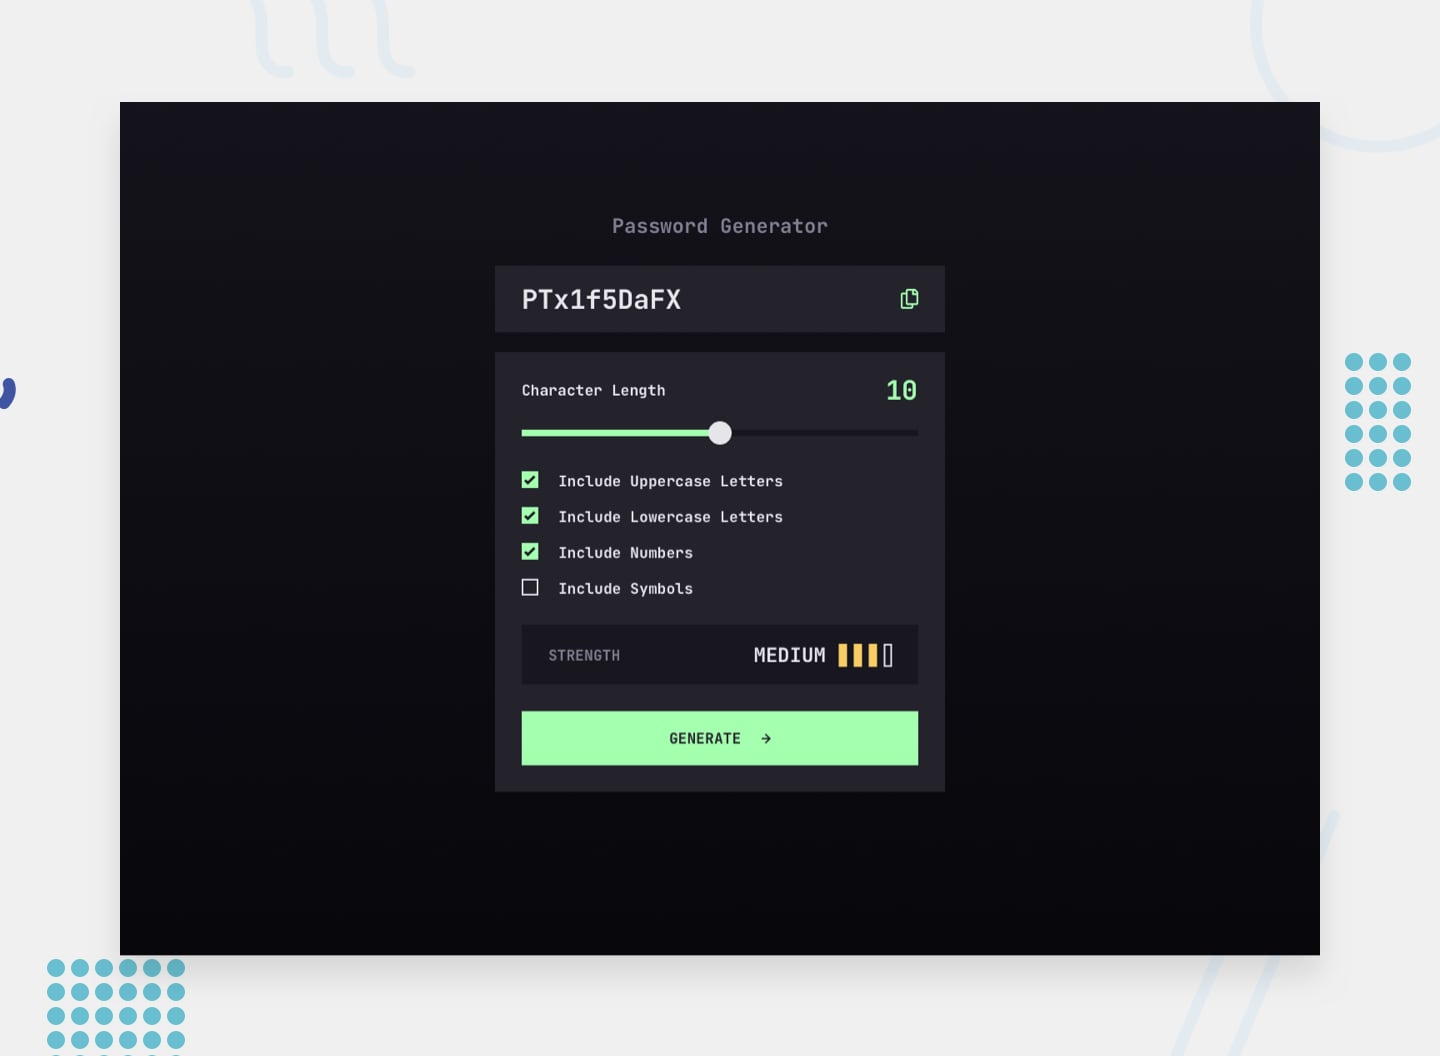
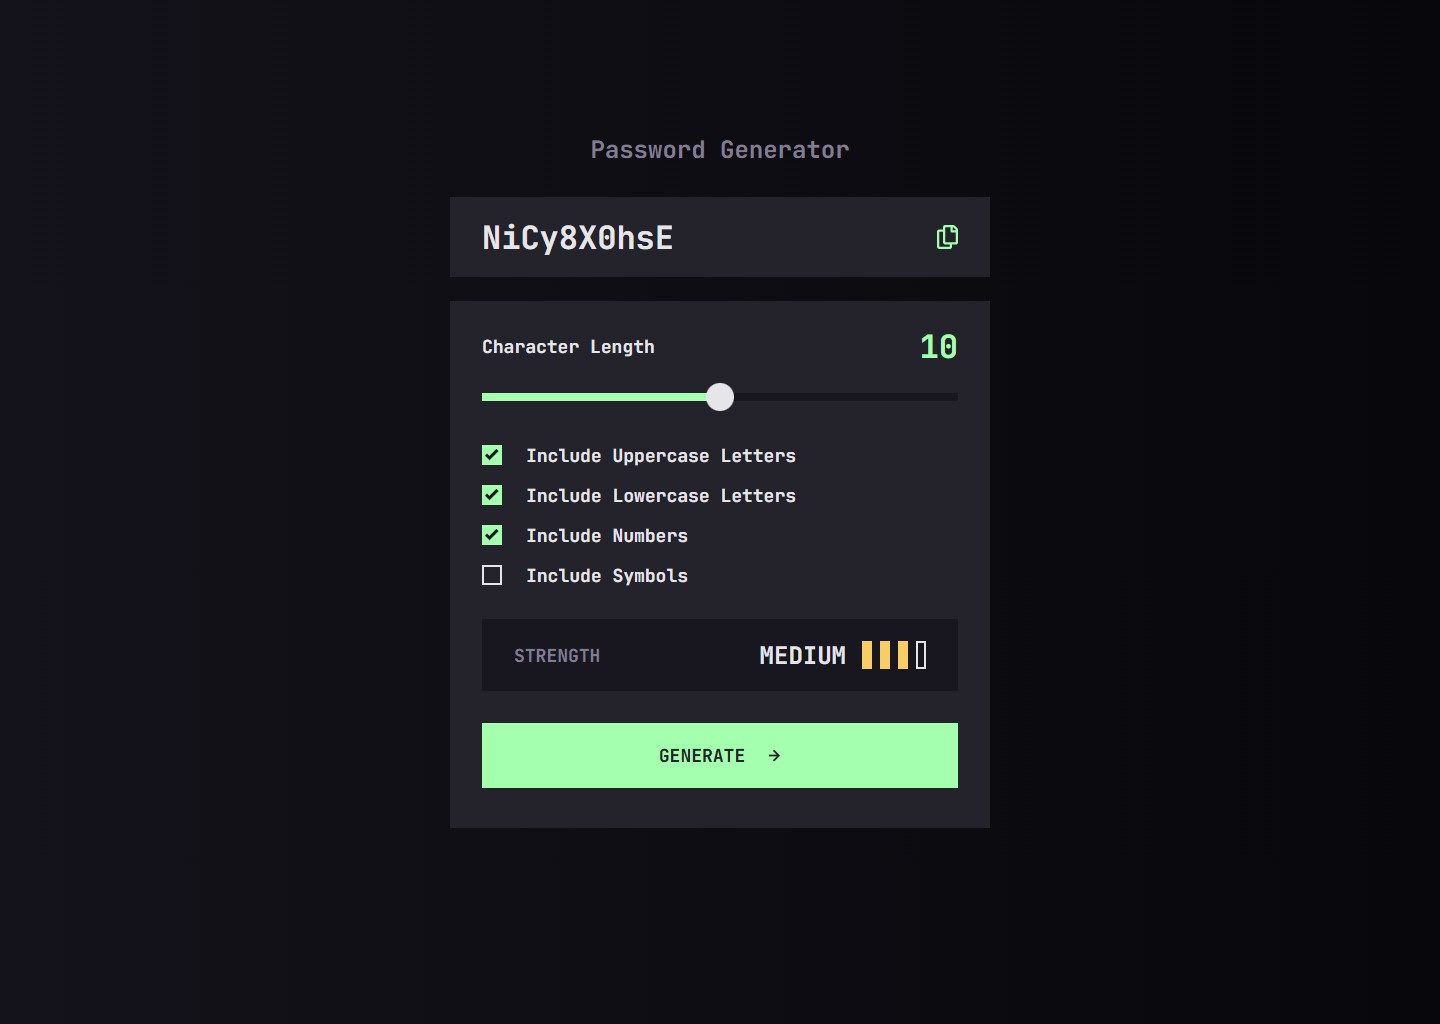
docs: README, скриншот приложения и закрытие плана
- README: стек, чему научился, что дальше, ресурсы, автор
- screenshot.jpg заменён скриншотом готового приложения
- Все этапы plan-project отмечены выполненными

diff --git a/README.md b/README.md
@@ -11,6 +11,9 @@
 - [Мой процесс](#мой-процесс)
   - [Стек технологий](#стек-технологий)
   - [Чему я научился](#чему-я-научился)
+  - [Что дальше](#что-дальше)
+  - [Полезные ресурсы](#полезные-ресурсы)
+- [Автор](#автор)
 
 ## Обзор
 
@@ -26,7 +29,7 @@
 
 ### Скриншот
 
-![](./screenshot.jpg)
+![Генератор паролей: сгенерированный пароль, длина 10, уровень Medium](./screenshot.jpg)
 
 ### Ссылки
 
@@ -36,4 +39,69 @@
 
 ### Стек технологий
 
+- Семантичная разметка HTML5 и доступность: `fieldset`/`legend`, live regions, `aria-*`
+- SCSS: модули `@use`, BEM, mobile-first, Media Queries Level 4 (`width >=`)
+- Flexbox и container queries
+- TypeScript в строгом режиме, без фреймворков
+- [Vite](https://vite.dev/) — dev-сервер и сборка
+- Prettier, ESLint (typescript-eslint) и Stylelint
+
 ### Чему я научился
+
+**Криптостойкая случайность без перекоса.** `Math.random()` для паролей не годится — он предсказуем. Я использую `crypto.getRandomValues()`, а случайный индекс получаю через rejection sampling: простой остаток `% length` дал бы modulo bias, и часть символов выпадала бы чаще.
+
+```ts
+const limit = UINT32_RANGE - (UINT32_RANGE % optionCount);
+
+while (true) {
+  crypto.getRandomValues(buffer);
+  const randomValue = buffer[0];
+  if (randomValue === undefined) throw new Error('Буфер пуст');
+  if (randomValue < limit) return randomValue % optionCount;
+}
+```
+
+Порядок символов перемешивается алгоритмом Фишера–Йетса, а в пароле гарантированно есть символ из каждого выбранного набора.
+
+**Container queries.** Пароль из 20 символов не помещался в поле на мобильном, особенно когда рядом появлялась надпись «Copied». Media query тут не поможет: ширина окна не меняется. Container query реагирует на ширину самого поля:
+
+```scss
+.password-display__field {
+  container-type: inline-size;
+}
+
+.password-display__value {
+  // 20 моноширинных символов ≈ 12em
+  font-size: min(1.5rem, 100cqi / 12);
+}
+```
+
+**Состояния на родителе, стили на детях.** TypeScript меняет один атрибут `data-strength`, а CSS сам выбирает цвет и количество полосок через `:nth-child(-n + 3)`. TS ничего не знает о дизайне.
+
+**Live regions для скринридеров.** Регион должен существовать в DOM пустым с самой загрузки. Повторный одинаковый текст скринридер не озвучит, поэтому я сначала очищаю регион, а через 100 мс записываю текст — для этого маленькая фабрика `createAnnouncer` на замыкании.
+
+**Свои контролы без потери доступности:**
+
+- чекбоксы — `appearance: none` прямо на `input`, без трюка «спрятать input и нарисовать `label::before`»;
+- слайдер — отдельные правила для `::-webkit-slider-thumb` и `::-moz-range-thumb`: объединять их через запятую нельзя;
+- фокус поля пароля — рамка на родителе через `:has(:focus-visible)`.
+
+**TypeScript без `any` и `!`.** Сужение типа DOM-элементов через `instanceof` в универсальном хелпере `getElement(id, HTMLInputElement)`, union строковых литералов и `as const` вместо `enum`, честная обработка `undefined` при `noUncheckedIndexedAccess`.
+
+### Что дальше
+
+- Включить ESLint-правила `no-floating-promises` и `no-misused-promises` в первом проекте с `fetch`.
+- Добавить модульные тесты для чистых функций `generatePassword` и `getStrength`.
+- Проверять вёрстку в Firefox и Safari, а не только в Chromium.
+
+### Полезные ресурсы
+
+- [MDN: Crypto.getRandomValues()](https://developer.mozilla.org/en-US/docs/Web/API/Crypto/getRandomValues)
+- [MDN: CSS container queries](https://developer.mozilla.org/en-US/docs/Web/CSS/CSS_containment/Container_queries)
+- [MDN: ARIA live regions](https://developer.mozilla.org/en-US/docs/Web/Accessibility/ARIA/ARIA_Live_Regions)
+- [MDN: Clipboard.writeText()](https://developer.mozilla.org/en-US/docs/Web/API/Clipboard/writeText)
+
+## Автор
+
+- Frontend Mentor — [@vimanshin](https://www.frontendmentor.io/profile/vimanshin)
+- GitHub — [@vimanshin](https://github.com/vimanshin)

diff --git a/plan-project/stage-08-final.md b/plan-project/stage-08-final.md
@@ -1,6 +1,6 @@
 # Этап 08. Финал
 
-**Статус:** 🔄 в работе
+**Статус:** ✅ готово
 
 ## Цель
 
@@ -26,4 +26,23 @@
 
 ## Факт реализации
 
-—
+Внесено ассистентом по просьбе пользователя, 2026-10-16 – 2026-10-17.
+
+- `final-review`: critical и major — нет; 9 minor и 7 nit записаны в [issues.md](issues.md) (#8–#21).
+- Пакет A и решения пользователя внесены: container query для шрифта пароля (#7, #9), перенос блока силы на узких экранах (#8), `createAnnouncer` и `#generator-status` для скринридера (#11–#13), woff2 40 КБ + preload (#1, #21), чистка токенов и ассетов (#15, #18), `meta description` (#20), `vite.config.ts` без `exclude` (#2).
+- Приняты как есть: #3 (Firefox не проверен), #10 и #14 (контраст из макета), #16 отложено, #19 — правило единиц.
+- README заполнен, `screenshot.jpg` заменён скриншотом приложения (1440, Filled, MEDIUM).
+
+### Проверка
+
+`npm run check` ✅. Playwright (Chromium), консоль пустая:
+
+| Сценарий                   | Результат                                                    |
+| -------------------------- | ------------------------------------------------------------ |
+| 375 / 20 символов          | 23px, без переполнения, поле 64                              |
+| 375 / 20 символов + Copied | 17.7px, без переполнения                                     |
+| 768 / 20 символов + Copied | 29.8px; 10 символов — 32px, как в Figma                      |
+| 320                        | блок силы переносится, горизонтальной прокрутки нет          |
+| Подсказка                  | исчезает при изменении настроек                              |
+| Объявления                 | «New password generated. Strength: …», повтор озвучивается   |
+| Production build           | шрифт качается один раз (preload, 39 КБ), предупреждений нет |

diff --git a/plan-project/README.md b/plan-project/README.md
@@ -18,6 +18,6 @@ Figma: [Designs](https://www.figma.com/design/v92FacRPzelhGMaYbcSAfe/password-ge
 | [05. Сила пароля и кнопка](stage-05-strength-and-button.md) | ✅     |
 | [06. Логика генерации](stage-06-generate-logic.md)          | ✅     |
 | [07. Копирование](stage-07-copy.md)                         | ✅     |
-| [08. Финал](stage-08-final.md)                              | 🔄     |
+| [08. Финал](stage-08-final.md)                              | ✅     |
 
 Статусы: ⏳ ожидает · 🔄 в работе · ✅ готово

diff --git a/plan-project/full-plan.md b/plan-project/full-plan.md
@@ -32,7 +32,7 @@
 - [x] 05. Блок силы (`data-strength`) и кнопка GENERATE · `scss-writer`
 - [x] 06. Логика генерации, силы и заливки слайдера · `ts-writer`
 - [x] 07. Копирование в буфер, состояние COPIED, `aria-live` · `ts-writer`
-- [ ] 08. Финал: woff2, Playwright 375/768/1440, `final-review`, README · `final-review`
+- [x] 08. Финал: woff2, Playwright 375/768/1440, `final-review`, README · `final-review`
 
 ## Критерии готовности каждого этапа
 
